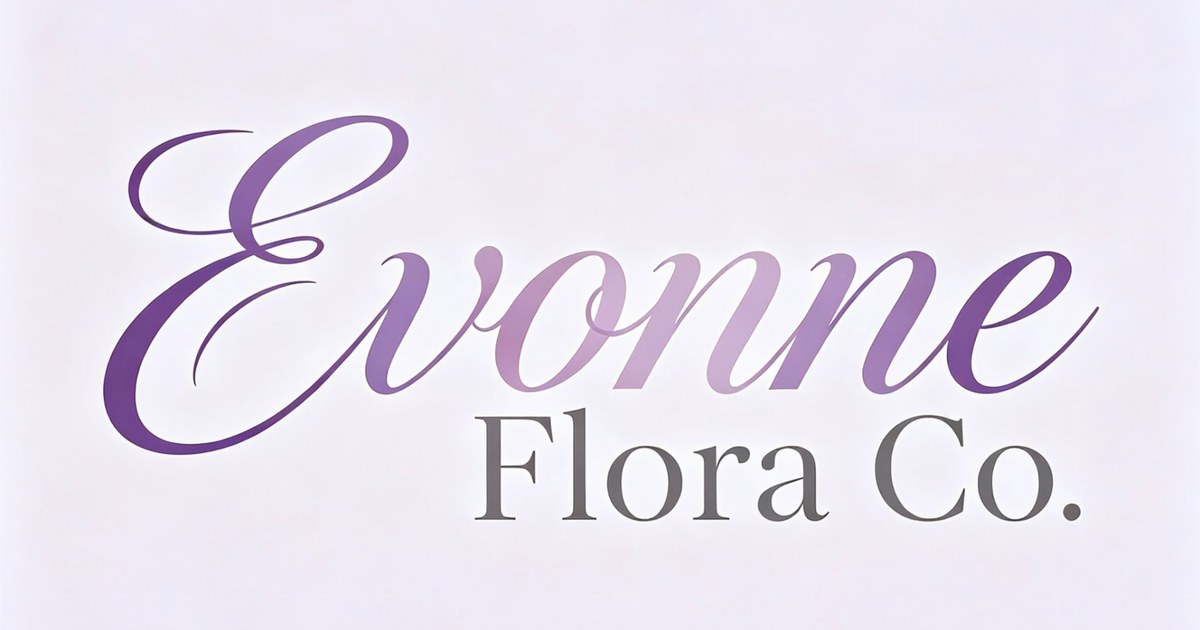
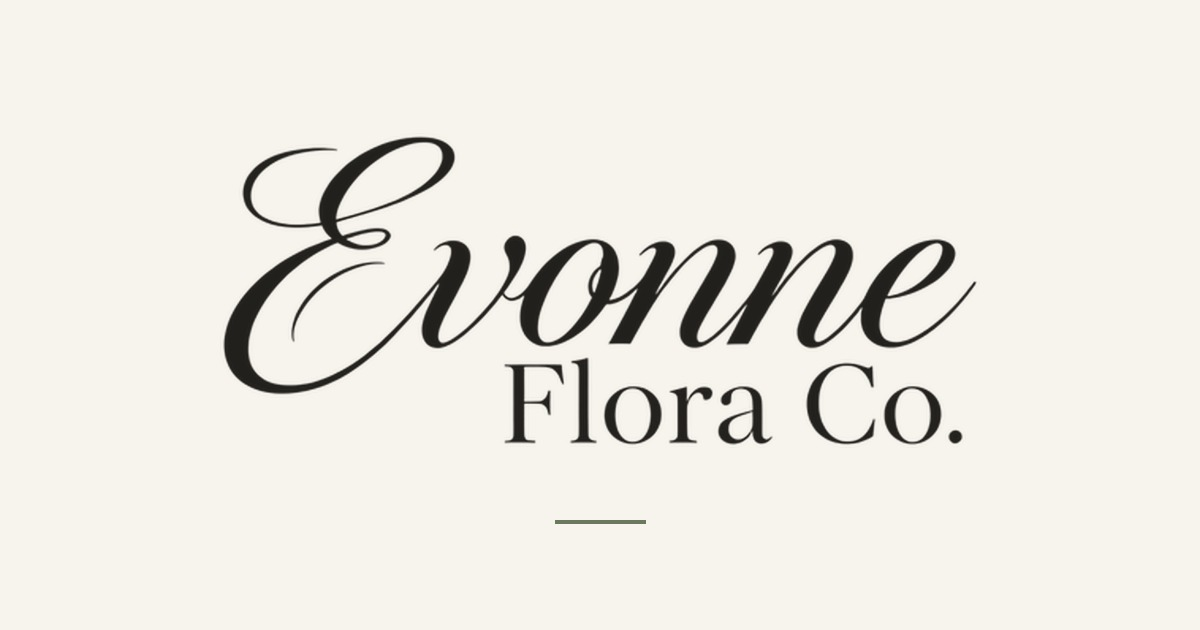
Switch palette to editorial paper: ivory, ink, olive green

diff --git a/assets/css/style.css b/assets/css/style.css
@@ -58,24 +58,24 @@
 
 :root {
   /* Palette — soft romantic lavender */
-  --c-ink: #2b2340;          /* deep plum ink for headings */
-  --c-body: #4b4358;         /* body text */
-  --c-muted: #736a83;        /* secondary text */
-  --c-line: #e7e0f0;         /* lavender hairlines */
-  --c-line-soft: #f1ecf7;    /* faintest divider */
-  --c-bg: #fdfbff;           /* very pale lavender white */
-  --c-bg-soft: #f6f1fb;      /* pale lavender tint */
-  --c-bg-deep: #241c36;      /* deep plum — footer / dark sections */
-  --c-accent: #7c53a0;       /* muted violet — primary CTA */
-  --c-accent-dark: #63408a;
-  --c-accent-soft: #efe7f7;  /* icon / tint blocks */
-  --c-green: #5c6b8c;        /* slate — trust / checks (cool tone) */
-  --c-green-soft: #eee9f6;
+  --c-ink: #22201C;          /* deep plum ink for headings */
+  --c-body: #4A443C;         /* body text */
+  --c-muted: #8A8275;        /* secondary text */
+  --c-line: #E3DCCB;         /* lavender hairlines */
+  --c-line-soft: #EDE7DA;    /* faintest divider */
+  --c-bg: #F7F4EE;           /* very pale lavender white */
+  --c-bg-soft: #EFEAE0;      /* pale lavender tint */
+  --c-bg-deep: #2A2C25;      /* deep plum — footer / dark sections */
+  --c-accent: #6B7A5E;       /* muted violet — primary CTA */
+  --c-accent-dark: #55634A;
+  --c-accent-soft: #E7EBDD;  /* icon / tint blocks */
+  --c-green: #5F6B54;        /* slate — trust / checks (cool tone) */
+  --c-green-soft: #E7EBDD;
 
   --radius: 3px;
   --radius-sm: 2px;
-  --shadow-sm: 0 1px 2px rgba(60,40,80,.05);
-  --shadow-md: 0 16px 44px rgba(60,40,80,.10);
+  --shadow-sm: 0 1px 2px rgba(52,46,34,.06);
+  --shadow-md: 0 16px 44px rgba(52,46,34,.12);
   --maxw: 1180px;
   --gut: clamp(18px, 4vw, 40px);
 
@@ -139,7 +139,7 @@ p { margin: 0 0 1.1em; }
 /* ---------- Header ---------- */
 .site-header {
   position: sticky; top: 0; z-index: 50;
-  background: rgba(252,250,255,.93); backdrop-filter: saturate(140%) blur(10px);
+  background: rgba(247,244,238,.94); backdrop-filter: saturate(140%) blur(10px);
   border-bottom: 1px solid var(--c-line);
 }
 .nav { display: flex; align-items: center; justify-content: space-between; height: 72px; }
@@ -255,17 +255,17 @@ p { margin: 0 0 1.1em; }
 .faq-item p { margin: 0; color: var(--c-muted); font-size: 15px; }
 
 /* ---------- Footer ---------- */
-.site-footer { background: var(--c-bg-deep); color: #d8cfe6; padding: 56px 0 30px; }
+.site-footer { background: var(--c-bg-deep); color: #D6D0C0; padding: 56px 0 30px; }
 .site-footer h4 { color: #fff; font-size: 14px; text-transform: uppercase; letter-spacing: .08em; margin: 0 0 14px; }
-.site-footer a { color: #d8cfe6; }
+.site-footer a { color: #D6D0C0; }
 .site-footer a:hover { color: #fff; }
 .footer-grid { display: grid; grid-template-columns: 1.8fr 1fr 1.25fr; gap: 40px; }
 .footer-grid p { font-size: 14.5px; margin: 0 0 10px; }
-.footer-grid h4 { color: #efe7f7; margin-bottom: 18px; }
-.founder-avatar { width: 72px; height: 72px; border-radius: 50%; background: linear-gradient(145deg, #a98bc4, #6d4f8d); color: #fff; display: flex; align-items: center; justify-content: center; font-family: 'Great Vibes', cursive; font-size: 42px; margin-bottom: 12px; border: 3px solid rgba(255,255,255,.28); box-shadow: 0 6px 18px rgba(0,0,0,.18); } /* 创始人照片位备用样式（页脚暂未启用） */
-.founder-name { font-size: 14px; color: #efe7f7; }
-.founder-name span { display: block; font-size: 12px; color: #a99bbf; margin-top: 3px; letter-spacing: .04em; }
-.footer-bottom { border-top: 1px solid rgba(255,255,255,.12); margin-top: 36px; padding-top: 20px; font-size: 13px; color: #a99bbf; display: flex; justify-content: space-between; flex-wrap: wrap; gap: 10px; }
+.footer-grid h4 { color: #EFEDE3; margin-bottom: 18px; }
+.founder-avatar { width: 72px; height: 72px; border-radius: 50%; background: linear-gradient(145deg, #9AA88A, #5F6B54); color: #fff; display: flex; align-items: center; justify-content: center; font-family: 'Great Vibes', cursive; font-size: 42px; margin-bottom: 12px; border: 3px solid rgba(255,255,255,.28); box-shadow: 0 6px 18px rgba(0,0,0,.18); } /* 创始人照片位备用样式（页脚暂未启用） */
+.founder-name { font-size: 14px; color: #EFEDE3; }
+.founder-name span { display: block; font-size: 12px; color: #A9A596; margin-top: 3px; letter-spacing: .04em; }
+.footer-bottom { border-top: 1px solid rgba(255,255,255,.12); margin-top: 36px; padding-top: 20px; font-size: 13px; color: #A9A596; display: flex; justify-content: space-between; flex-wrap: wrap; gap: 10px; }
 
 /* ---------- Breadcrumb ---------- */
 .crumb { font-size: 13px; color: var(--c-muted); padding: 18px 0 0; }
@@ -323,7 +323,7 @@ p { margin: 0 0 1.1em; }
   letter-spacing: 2.4px; color: var(--c-ink); text-transform: uppercase;
   margin-top: 1px;
 }
-.brand[style*="#fff"] .logo-script, .site-footer .brand .logo-script { color: #f2e8fb; }
+.brand[style*="#fff"] .logo-script, .site-footer .brand .logo-script { color: #E9EDE1; }
 .brand[style*="#fff"] .logo-sub,   .site-footer .brand .logo-sub   { color: #fff; }
 @media (max-width: 640px){ .brand .logo-script{ font-size: 26px; } .brand .logo-sub{ font-size: 10px; } }
 
@@ -412,10 +412,10 @@ p { margin: 0 0 1.1em; }
 .studio-split figure figcaption { font-size: 13px; color: var(--c-muted); margin-top: 14px; }
 
 /* ---------- Dark CTA band ---------- */
-.cta-band { background: var(--c-bg-deep); color: #efe7f7; }
+.cta-band { background: var(--c-bg-deep); color: #EFEDE3; }
 .cta-band .container { padding-top: clamp(48px, 6vw, 92px); padding-bottom: clamp(48px, 6vw, 92px); }
 .cta-band h2 { color: #fff; max-width: 20ch; }
-.cta-band p { color: #b6a9c9; max-width: 52ch; }
+.cta-band p { color: #B6B1A2; max-width: 52ch; }
 .cta-band .btn-ghost { color: #fff; border-color: rgba(255,255,255,.34); }
 .cta-band .btn-ghost:hover { border-color: #fff; color: #fff; }
 

diff --git a/quality.html b/quality.html
@@ -89,7 +89,7 @@
 
   <section class="cta-band">
     <div class="container">
-      <p class="eyebrow" style="color:#c9b6e2;">Talk to us</p>
+      <p class="eyebrow" style="color:#C3CBB4;">Talk to us</p>
       <h2>Other questions or requirements about the flowers?</h2>
       <p>Our floral materials team can help with anything specific you need — tell us what you are after and we'll confirm exactly what we can supply before you order.</p>
       <a href="contact.html" class="btn btn-primary btn-lg">Talk to our team</a>

diff --git a/index.html b/index.html
@@ -184,7 +184,7 @@
 
   <section class="cta-band">
     <div class="container">
-      <p class="eyebrow" style="color:#c9b6e2;">Start a project</p>
+      <p class="eyebrow" style="color:#C3CBB4;">Start a project</p>
       <h2>Tell us what you are planning</h2>
       <p>Send a brief with your venue, colours and quantities. We come back with a shortlist and a quote — and a sample, if you would rather see the material before you commit.</p>
       <div class="hero-actions">

diff --git a/about.html b/about.html
@@ -127,7 +127,7 @@
 
   <section class="cta-band">
     <div class="container">
-      <p class="eyebrow" style="color:#c9b6e2;">Start a project</p>
+      <p class="eyebrow" style="color:#C3CBB4;">Start a project</p>
       <h2>Bring us your brief</h2>
       <p>Tell us the flowers, the colours and the volume. We reply within one business day with a selection and a quote — and a sample, if you want to see the material first.</p>
       <div class="hero-actions">
